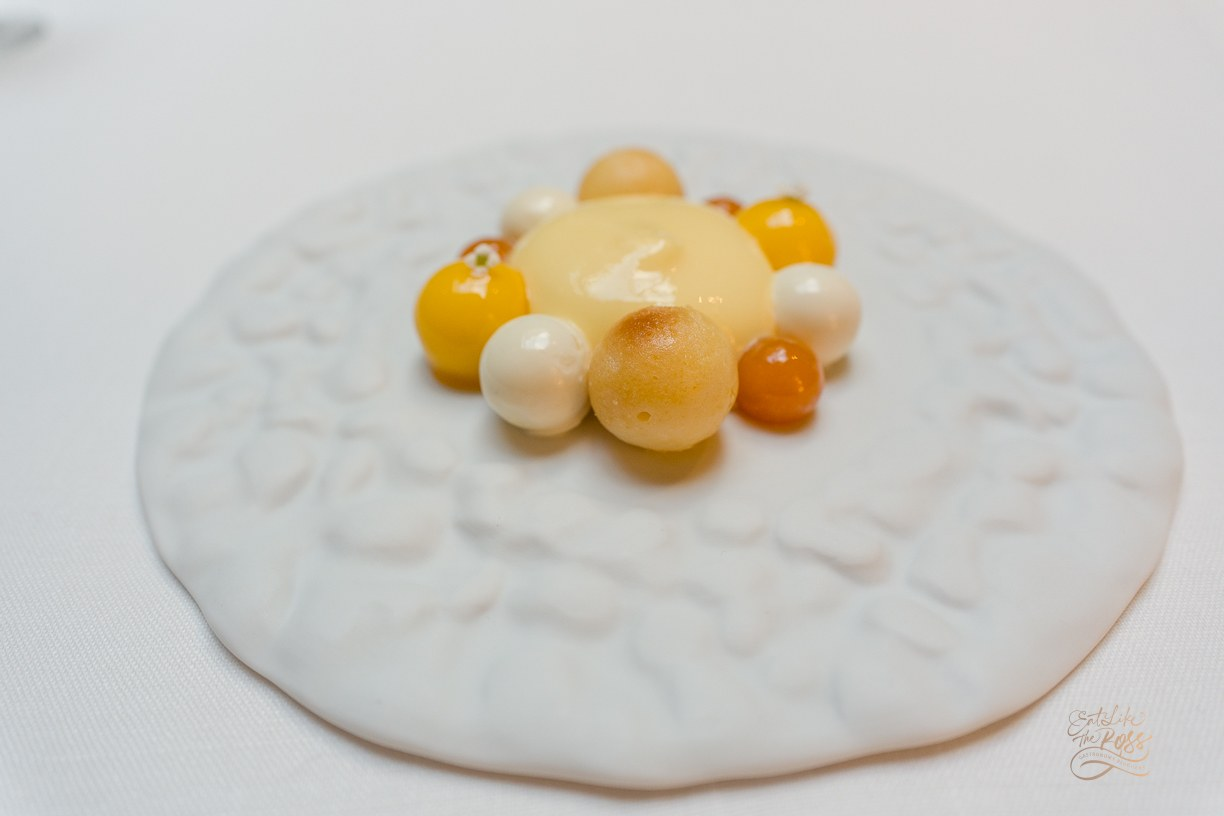
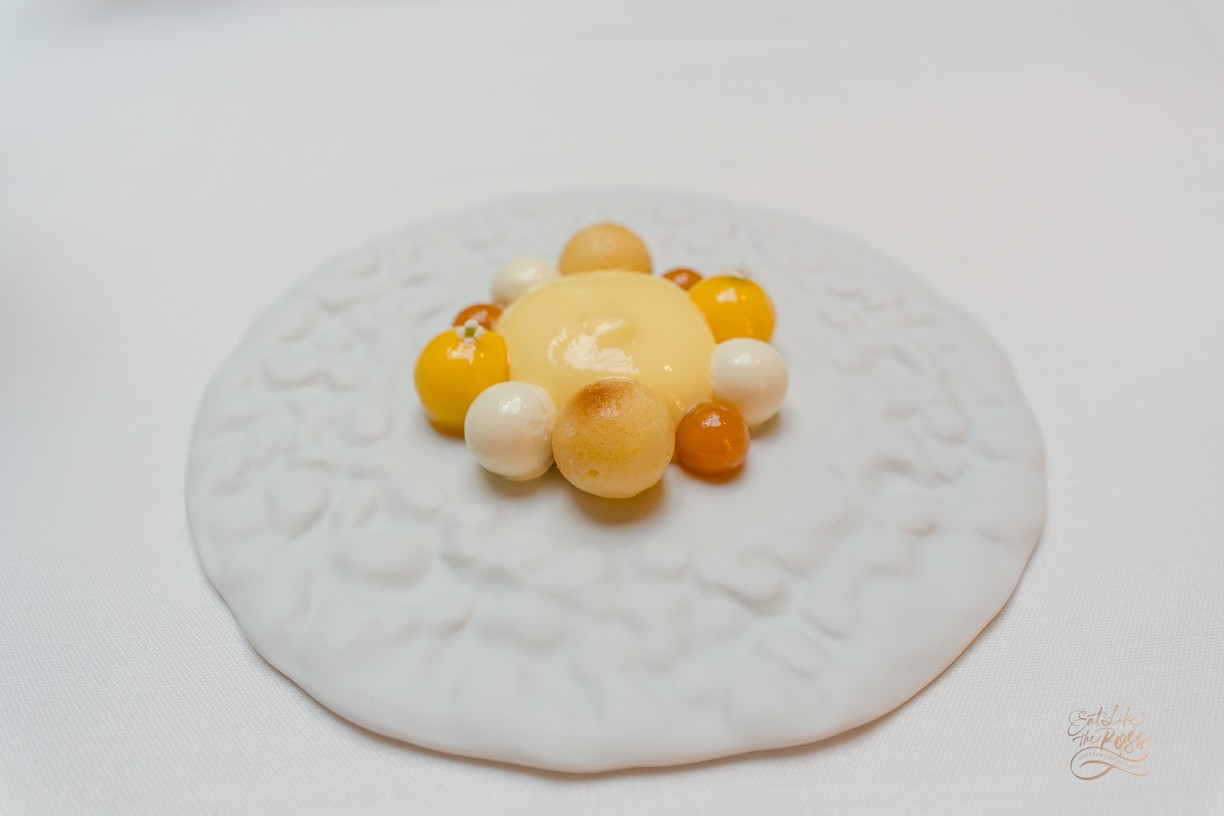
lasarte: photos as shot (uncropped originals replace pre-cropped 3:2)
Claude-Session: https://claude.ai/code/session_017cY6J6uPkEjNrLqN3xSHNx

diff --git a/posts/lasarte.md b/posts/lasarte.md
@@ -16,7 +16,7 @@ restaurant:
   cuisine: "Spanish"
   style: "Contemporary"
   awards: ["MICHELIN 3★"]
-cover: "./images/lasarte/cover.jpg | มิลเฟยปลาไหลรมควัน ฟัวกราส์ และแอปเปิ้ลเขียว ร้าน Lasarte บาร์เซโลนา"
+cover: "./images/lasarte/cover.jpg | มิลเฟยปลาไหลรมควัน ฟัวกราส์ และแอปเปิ้ลเขียว ร้าน Lasarte บาร์เซโลนา | focus=0.49,0.47 | zoom=1.16"
 billBand: "฿฿฿฿"
 visit: Dec-2025
 hashtags: [บอสพาชิม, eatliketheboss, Lasarte, Barcelona]
